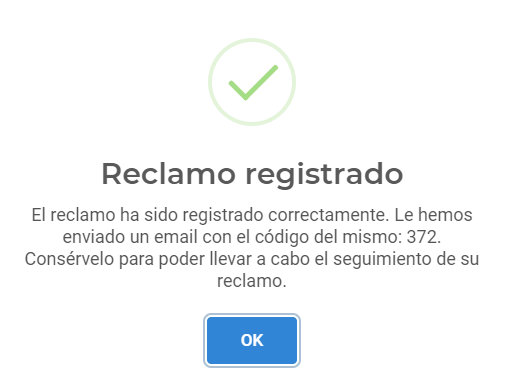
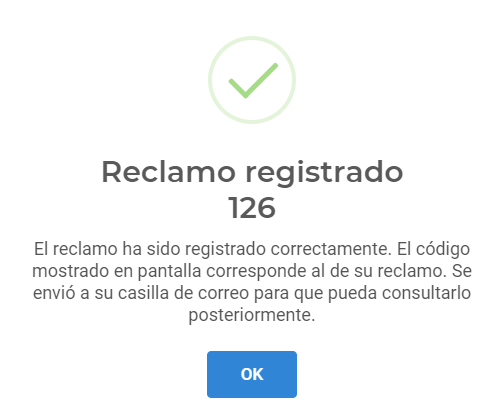
Versión 1.4.0. Trabajando en registrar reclamo usuario municipal

Changed region(s): [[0.0298, 0.3721, 0.9524, 0.7752], [0.4167, 0.062, 0.5952, 0.3411], [0.3869, 0.8062, 0.5952, 0.9612]]

diff --git a/src/app/pages/registrar-reclamo/registrar-reclamo.component.ts b/src/app/pages/registrar-reclamo/registrar-reclamo.component.ts
@@ -68,17 +68,15 @@ export class RegistrarReclamoComponent implements OnInit {
       this.horas = ((this.getHour.getHours() < 10 ? '0' : '') + this.getHour.getHours()).toString();
       this.minutos = ((this.getMin.getMinutes() < 10 ? '0' : '') + this.getMin.getMinutes()).toString();
 
-      // Pregunta por Rol de Usuario
+      // Pregunta por Rol de Usuario, si es 1 corresponde a Usuario Ciudadano
       if (this.user.usu_IDRol === 1) {
         this.objReclamo = {
-          // Creación de objeto Reclamo
+          // Se genera el objeto con los datos del Reclamo.
           rec_fechaAlta: this.fechaRec,
           rec_altura: +this.objRec.altura,
           rec_observaciones: (this.objRec.observaciones) ? this.objRec.observaciones : null,
           rec_IDOrdenServicio: null,
           rec_IDTipoReclamo: +this.objRec.tipoReclamo.tipRec_IDTipoReclamo,
-
-          // Campos restantes que se incluyen en el registro del Reclamo
           usu_IDUsuario: this.user.usu_IDUsuario,
           can_IDCanal: 3,
           cal_IDCalle: +this.objRec.calle.cal_IDCalle,
@@ -91,8 +89,10 @@ export class RegistrarReclamoComponent implements OnInit {
           estRec_nombre: this.objRec.tipoReclamo.tipRec_nombre
         };
       } else {
-        // CREACION DE OBJETO USUARIO EN CASO QUE SEA RECLAMO MUNICIPAL
-        this.objUsuario = {
+        // Si no es uno, entonces es un reclamo generado por un Usuario Municipal.
+        this.objReclamo = {
+          // Se genera el objeto Reclamo con los datos del Usuario Ciudadano y del Reclamo.
+          // Datos Ciudadano.
           usu_username: this.objUser.dni,
           usu_password: this.objUser.dni,
           usu_dni: this.objUser.dni,
@@ -100,55 +100,40 @@ export class RegistrarReclamoComponent implements OnInit {
           usu_apellido: this.objUser.apellido,
           usu_telefono: this.objUser.telefono,
           usu_email: this.objUser.email,
-          usu_IDRol: 1
+          // Datos Reclamo.
+          rec_fechaAlta: this.fechaRec,
+          rec_altura: +this.objRec.altura,
+          rec_observaciones: (this.objRec.observaciones) ? this.objRec.observaciones : null,
+          rec_IDOrdenServicio: null,
+          rec_IDTipoReclamo: +this.objRec.tipoReclamo.tipRec_IDTipoReclamo,
+          can_IDCanal: this.objRec.canal.can_IDCanal,
+          cal_IDCalle: +this.objRec.calle.cal_IDCalle,
+          bar_IDBarrio: +this.objRec.barrio.bar_IDBarrio,
+          his_horaIngreso: this.horas + this.minutos,
+          tipRec_nombre: this.objRec.tipoReclamo.tipRec_nombre,
+          usu_boExiste: false,
+          estRec_nombre: this.objRec.tipoReclamo.tipRec_nombre
         };
-
-        this.usuarioService.registrarUsuario(this.objUsuario).subscribe(data => {
-          console.log(data);
-
-          // if (data > 0) {
-          //   this.objReclamo = {
-          //     // CREACION DE OBJETO RECLAMO
-          //     rec_fechaAlta: this.fechaRec,
-          //     rec_altura: +this.objRec.altura,
-          //     rec_observaciones: (this.objRec.observaciones) ? this.objRec.observaciones : null,
-          //     rec_IDOrdenServicio: null,
-          //     rec_IDTipoReclamo: +this.objRec.tipoReclamo.tipRec_IDTipoReclamo,
-
-          //     // CAMPOS RESTANTES
-          //     usu_IDUsuario: +data,
-          //     can_IDCanal: this.objRec.canal.can_IDCanal,
-          //     cal_IDCalle: +this.objRec.calle.cal_IDCalle,
-          //     bar_IDBarrio: +this.objRec.barrio.bar_IDBarrio,
-          //     his_horaIngreso: this.horas + this.minutos,
-          //     tipRec_nombre: this.objRec.tipoReclamo.tipRec_nombre,
-          //     usu_boExiste: false,
-          //     usu_nombre: this.objUser.nombre,
-          //     usu_email: this.objUser.email,
-          //     estRec_nombre: this.objRec.tipoReclamo.tipRec_nombre
-          //   };
-          // }
-        });
       }
 
-      // this.reclamoService.registrarReclamo(this.objReclamo).subscribe(data => {
-      //   if (data) {
-      //     this.codRec = +JSON.parse(data);
-      //   }
+      this.reclamoService.registrarReclamo(this.objReclamo).subscribe(data => {
+        if (data) {
+          this.codRec = +JSON.parse(data);
+        }
 
-      //   Swal.close();
-      //   Swal.fire({
-      //     allowOutsideClick: false,
-      //     type: 'success',
-      //     title: 'Reclamo registrado' + '<br>' + this.codRec,
-      //     text: 'El reclamo ha sido registrado correctamente. El código mostrado en pantalla corresponde al de su reclamo. Se envió ' +
-      //       'a su casilla de correo para que pueda consultarlo posteriormente.'
-      //     }).then(result => {
-      //     if (result.value) {
-      //       this.router.navigateByUrl('/home');
-      //       }
-      //     });
-      // });
+        Swal.close();
+        Swal.fire({
+          allowOutsideClick: false,
+          type: 'success',
+          title: 'Reclamo registrado' + '<br>' + this.codRec,
+          text: 'El reclamo ha sido registrado correctamente. El código mostrado en pantalla corresponde al de su reclamo. Se envió ' +
+            'a su casilla de correo para que pueda consultarlo posteriormente.'
+          }).then(result => {
+          if (result.value) {
+            this.router.navigateByUrl('/home');
+            }
+          });
+      });
 
       localStorage.removeItem('objReclamo');
 

diff --git a/src/app/pages/ayuda/Reclamante/ayuda-consultar-reclamo/ayuda-consultar-reclamo.component.html b/src/app/pages/ayuda/Reclamante/ayuda-consultar-reclamo/ayuda-consultar-reclamo.component.html
@@ -7,7 +7,7 @@
         <img src="../../../assets/images/myImages/filtroConsultarReclamante.png">
     </div>
     <br> Para aplicar el filtro de búsqueda se cuenta con 2 campos: <b>Estado</b> y <b>Dato</b>.
-    <br><br> En cuanto a "<b>Estado</b>", se hace referencia al estado en que se encuentra el reclamo, que pueden ser 6:
+    <br><br> En cuanto a <b>Estado</b>, se hace referencia al estado en que se encuentra el reclamo, que pueden ser 6:
     <br><br>
     <mat-accordion>
         <mat-expansion-panel>
@@ -58,19 +58,19 @@
                     <b>Cumplido</b>
                 </mat-panel-title>
             </mat-expansion-panel-header>
-            <p>Estado en que se encuentra un Reclamo cuando fue abordado y solucionado exitosamente. trabajando.
+            <p>Estado en que se encuentra un Reclamo cuando fue abordado y solucionado exitosamente.
             </p>
         </mat-expansion-panel>
     </mat-accordion>
     <br> Predeterminadamente, el sistema muestra los Reclamos en Estado <b>Sin Asignar</b>. Si selecciona un Estado diferente, el sistema le mostrará todos los Reclamos realizados en ese estado al momento actual.
-    <br><br> Por otra parte, el campo "<b>Dato</b>" nos permite filtrar los Reclamos ingresado cualquier dato referido al mismo, ya sea código, fecha de alta, reclamo, etc.
+    <br><br> Por otra parte, el campo <b>Dato</b> nos permite filtrar los Reclamos ingresado cualquier dato referido al mismo, ya sea código, fecha de alta, reclamo, etc.
     <br><br> Ya sea por uno, o por ambos campos, el sistema listara todos los reclamos con sus datos en una grilla:
     <br><br>
     <div align="center">
         <img src="../../../assets/images/myImages/grillaConsultar.png">
     </div>
 
-    <br><br> Presionando el botón en la columna "<b>Ver</b>" de algún Reclamo específico, podrá visualizar las actividades llevadas a cabo en el proceso de resolución, empezando desde la Notificación al Área de Servicio cuando se registró el Reclamo hasta
+    <br><br> Presionando el botón en la columna <b>Ver</b> de algún Reclamo específico, podrá visualizar las actividades llevadas a cabo en el proceso de resolución, empezando desde la Notificación al Área de Servicio cuando se registró el Reclamo hasta
     el cumplimiento del Reclamo en caso que haya podido resolverse:
     <br><br>
     <div align="center">

diff --git a/src/app/pages/generar-reclamo/generar-reclamo-municipal/generar-reclamo-municipal.component.html b/src/app/pages/generar-reclamo/generar-reclamo-municipal/generar-reclamo-municipal.component.html
@@ -53,7 +53,7 @@
                     </div>
                     <div class="col-md-6">
                         <div style="float: right;">
-                            <button (click)="validarUsuario()" [disabled]="!frmDatosReclamante.valid" mat-raised-button matStepperNext color="primary" matTooltip="Datos del Reclamo" matTooltipPosition="below">
+                            <button (click)="validarUsuario()" [disabled]="!frmDatosReclamante.valid" mat-raised-button matStepperNext color="primary" matTooltip="Datos del Reclamo" matTooltipPosition="left">
                                 Siguiente <i class="fa fa-fw fa-chevron-right"></i>
                             </button>
                         </div>
@@ -141,12 +141,12 @@
             <div class="form-group">
                 <div class="form-row">
                     <div class="col-md-6">
-                        <button mat-raised-button matStepperPrevious color="primary" matTooltip="Datos del Ciudadano" matTooltipPosition="below">
+                        <button mat-raised-button matStepperPrevious color="primary" matTooltip="Datos del Ciudadano" matTooltipPosition="right">
                                         Anterior <i class="fa fa-fw fa-chevron-left"></i>
                                     </button>
                     </div>
                     <div class="col-md-6">
-                        <button (click)="validarReclamo()" [disabled]="!frmDatosReclamo.valid" mat-raised-button color="primary" matTooltip="Resumen del Reclamo" matTooltipPosition="below" style="float: right;">
+                        <button (click)="validarReclamo()" [disabled]="!frmDatosReclamo.valid" mat-raised-button color="primary" matTooltip="Resumen del Reclamo" matTooltipPosition="left" style="float: right;">
                                         Siguiente <i class="fa fa-fw fa-chevron-right"></i>
                                     </button>
                     </div>

diff --git a/src/app/pages/ayuda/Reclamante/ayuda-registrar-reclamo/ayuda-registrar-reclamo.component.html b/src/app/pages/ayuda/Reclamante/ayuda-registrar-reclamo/ayuda-registrar-reclamo.component.html
@@ -1,6 +1,13 @@
 <h3>¿Cómo Registrar un Reclamo?</h3>
 <div class="text-justify">
-    1) Dirígase a la sección <b>Reclamo > Registrar</b> e ingrese los datos solicitados en el orden en que aparecen (area de servicio, reclamo, barrio, etc).
+    1) Dirígase a la sección <b>Reclamo > Registrar</b>
+    <br><br>
+    <b>*IMPORTANTE: Sólo puede enviarse un Reclamo por día, si intenta registrar más de uno, el sistema le mostrará el siguiente mensaje:</b>
+    <br><br>
+    <div align="center">
+        <img src="../../../assets/images/myImages/reclamoDiario.png">
+    </div>
+    En caso de que no haya ingresado un Reclamo en el día actual, el sistema solicitará el ingreso de los datos en el orden en que aparecen (area de servicio, reclamo, barrio, etc).
     <br><br>
     <div align="center">
         <img src="../../../assets/images/myImages/datosReclamo.PNG">
@@ -11,7 +18,7 @@
     <div align="center">
         <img src="../../../assets/images/myImages/validarReclamo.png">
     </div>
-    <br> Caso contrario, si el Reclamo no ha sido ingresado con anterioridad, se le mostrará un resumen con los datos del mismo:
+    <br> Caso contrario, si es un Reclamo nuevo, se le mostrará un resumen con los datos del mismo:
     <br><br>
     <div align="center">
         <img src="../../../assets/images/myImages/resumenReclamo.PNG">
@@ -22,10 +29,4 @@
         <img src="../../../assets/images/myImages/reclamoRegistrado.PNG">
     </div>
     <br> El sistema automáticamente le envía un correo electrónico con el código del Reclamo para su posterior consulta. Le recomendamos no borre este email para poder seguirlo paso a paso.
-    <br><br>
-    <b>*IMPORTANTE: Sólo puede enviarse un Reclamo por día, si intenta registrar más de uno, el sistema le mostrará el siguiente mensaje:</b>
-    <br><br>
-    <div align="center">
-        <img src="../../../assets/images/myImages/reclamoDiario.png">
-    </div>
 </div>

diff --git a/src/app/pages/ayuda/Reclamante/ayuda-calificar-reclamo/ayuda-calificar-reclamo.component.html b/src/app/pages/ayuda/Reclamante/ayuda-calificar-reclamo/ayuda-calificar-reclamo.component.html
@@ -1,12 +1,12 @@
 <h3>¿Cómo Calificar un Reclamo?</h3>
 <div class="text-justify">
     Esta operación podrá llevarla a cabo únicamente en caso de que el Reclamo haya sido resuelto. Para calificar su Reclamo, dirígase a la sección <b>Reclamo > Consultar</b>.
-    <br><br>Seleccione el Reclamo correspondiente en la columna "<b>Ver</b>":
+    <br><br>Seleccione el Reclamo correspondiente en la columna <b>Ver</b>:
     <br><br>
     <div align="center">
         <img src="../../../assets/images/myImages/verReclamo2.png">
     </div>
-    <br><br> Se listarán todas las actividades y estados por los cuales pasó su reclamo. Si el último Estado es "<b>Cumplido</b>", se habilitará el botón para poder calificarlo:
+    <br><br> Se listarán todas las actividades y estados por los cuales pasó su reclamo. Si el último Estado es <b>Cumplido</b>, se habilitará el botón para poder calificarlo:
     <br><br>
     <div align="center">
         <img src="../../../assets/images/myImages/calificarReclamo.png">
@@ -16,7 +16,7 @@
     <div align="center">
         <img src="../../../assets/images/myImages/calificarReclamo2.PNG">
     </div>
-    <br> Luego de ingresar los datos solicitados, presione "Enviar". El sistema registrará su calificación y le mostrará el siguiente mensaje en pantalla:
+    <br> Luego de ingresar los datos solicitados, presione <b>Enviar</b>. El sistema registrará su calificación y le mostrará el siguiente mensaje en pantalla:
     <br><br>
     <div align="center">
         <img src="../../../assets/images/myImages/mensajeCalificarReclamo.png">

diff --git a/src/app/shared/header/header.component.ts b/src/app/shared/header/header.component.ts
@@ -1,5 +1,4 @@
 import { Component, OnInit } from '@angular/core';
-import { Router } from '@angular/router';
 import { DatePipe } from '@angular/common';
 import Swal from 'sweetalert2';
 
@@ -25,7 +24,6 @@ export class HeaderComponent implements OnInit {
   getMin = new Date();
 
   constructor(private loginService: LoginService,
-              private router: Router,
               private datePipe: DatePipe) { }
 
   ngOnInit() {
@@ -50,6 +48,13 @@ export class HeaderComponent implements OnInit {
       cancelButtonText: 'Cancelar'
     }).then(result => {
       if (result.value) {
+        Swal.fire({
+          allowOutsideClick: false,
+          type: 'info',
+          text: 'Espere por favor...'
+        });
+        Swal.showLoading();
+        
         // Se inicializa Fecha y Hora actual para registrar  Fin de Sesión de Usuario
         this.fechaActual = new Date();
         this.fechaActual = this.datePipe.transform(this.fechaActual, 'dd/MM/yyyy');

diff --git a/src/app/pages/registrar-reclamo/registrar-reclamo.component.html b/src/app/pages/registrar-reclamo/registrar-reclamo.component.html
@@ -12,7 +12,7 @@
                                 <div class="form-row">
                                     <label><strong>Reclamante:</strong></label>
                                     <div class="ml-1"></div>
-                                    <label>{{ user.usu_nombre + ' ' + user.usu_apellido }}</label>
+                                    <label>{{ this.objUser.nombre + ' ' + this.objUser.apellido }}</label>
                                 </div>
                             </div>
 

diff --git a/src/app/services/login.service.ts b/src/app/services/login.service.ts
@@ -3,6 +3,8 @@ import { HttpClient, HttpParams } from '@angular/common/http';
 import { Observable } from 'rxjs';
 import { environment } from '../../environments/environment';
 import { Router } from '@angular/router';
+import Swal from 'sweetalert2';
+
 import { RecuperarPassword } from '../_entities/usuario.entities';
 
 @Injectable({
@@ -27,6 +29,7 @@ export class LoginService {
 
   logout() {
     localStorage.clear();
+    Swal.close();
     this.router.navigateByUrl('/login');
   }
 

diff --git a/src/app/pages/generar-reclamo/generar-reclamo-municipal/generar-reclamo-municipal.component.css b/src/app/pages/generar-reclamo/generar-reclamo-municipal/generar-reclamo-municipal.component.css
@@ -5,19 +5,11 @@
     background: #1e88e5;
 }
 
-agm-map {
-    height: 250px;
-}
-
 input:disabled {
     cursor: default !important;
 }
 
-mat-step:disabled {
-    cursor: pointer !important;
+mat-step-header {
+    pointer-events: none;
+    cursor: default;
 }
-
-
-/* .mat-error {
-    font-size: 12px;
-} */
